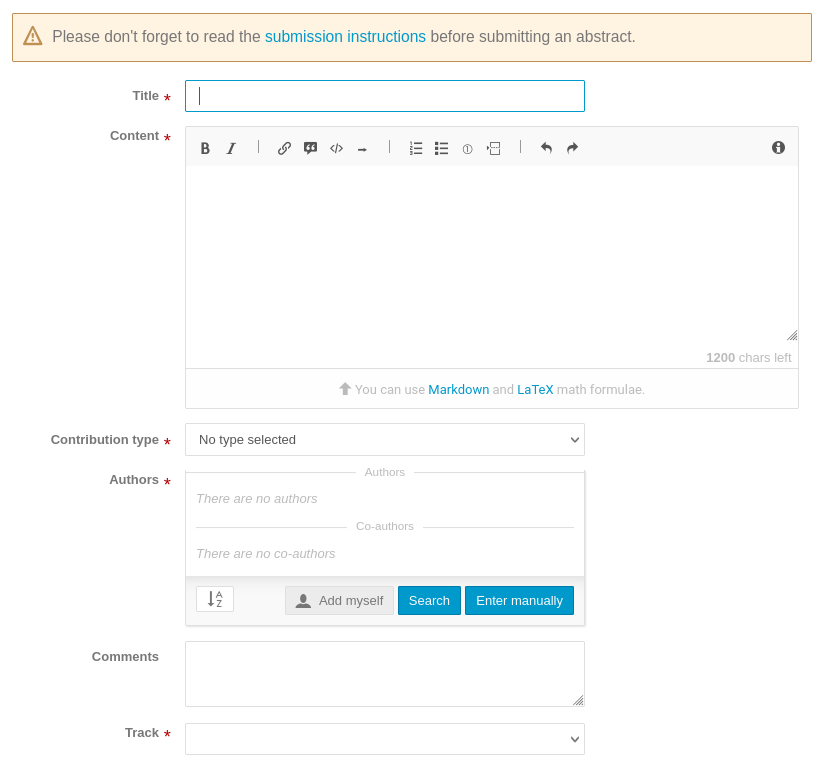
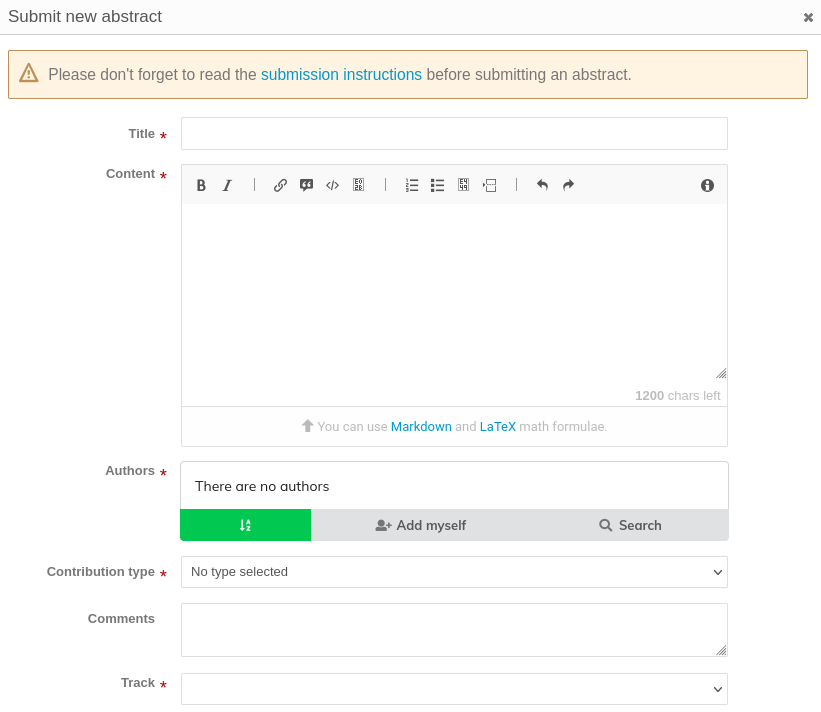
Updated documentation for Invited Oral proposals (add a person without a JACoW account)

diff --git a/docs/InvitedOrals/SABsubmission.md b/docs/InvitedOrals/SABsubmission.md
@@ -36,9 +36,6 @@ All fields marked with a **red star** are mandatory. Below the image all needed 
   
     * also refrain from copying and pasting from word processors like Microsoft Word or LibreOffice. Special characters like non-standard ticks (``, ´´, etc.) or the *three-dots character* (...) could get bad results when creating the final abstracts booklet. Be sure that these kind of special characters are avoided
 
-* **Contribution Type**: be sure to select "Invited Oral Presentation"
-  ![](img/contribution_type.png)
-
 * **Authors**: enter the proposed speakers for this contribution by clicking on the **Search** button:
   
     * search for the person from the **JACoW Central Repository** by providing *Family name* and/or *Given (First) name* and/or *Email address* and/or *Affiliation*. Be sure that the "**Include users with no Indico account**" is selected![](img/author_search.png)
@@ -51,11 +48,14 @@ All fields marked with a **red star** are mandatory. Below the image all needed 
     * now press the **Confirm** button. The user will be added to the list of authors: 
       ![](img/author_add_3.png)
   
-    * then make the author a speaker by **clicking on the "*Speaker*" button**: its colour will turn from grey to light blue  
+    * then make the author a speaker by **clicking on the "*Speaker*" button** (*the microphone icon*)
   
-    * *In case that it is not possible to find the wanted person by searching*, enter their details manually by way of the "**Enter manually**" button. This should **not** be used normally
+    * *In case that it is not possible to find the wanted person by searching*, [create a JACoW profile for this person first](../General/submission.md#creating-jacow-profiles-for-new-authors)
   
     * do **not** enter yourself in the list of authors
+
+* **Contribution Type**: be sure to select "Invited Oral Presentation"
+  ![](img/contribution_type.png)
 
 * **Comments**: this space is for any notes possibly needed for this contribution
 
